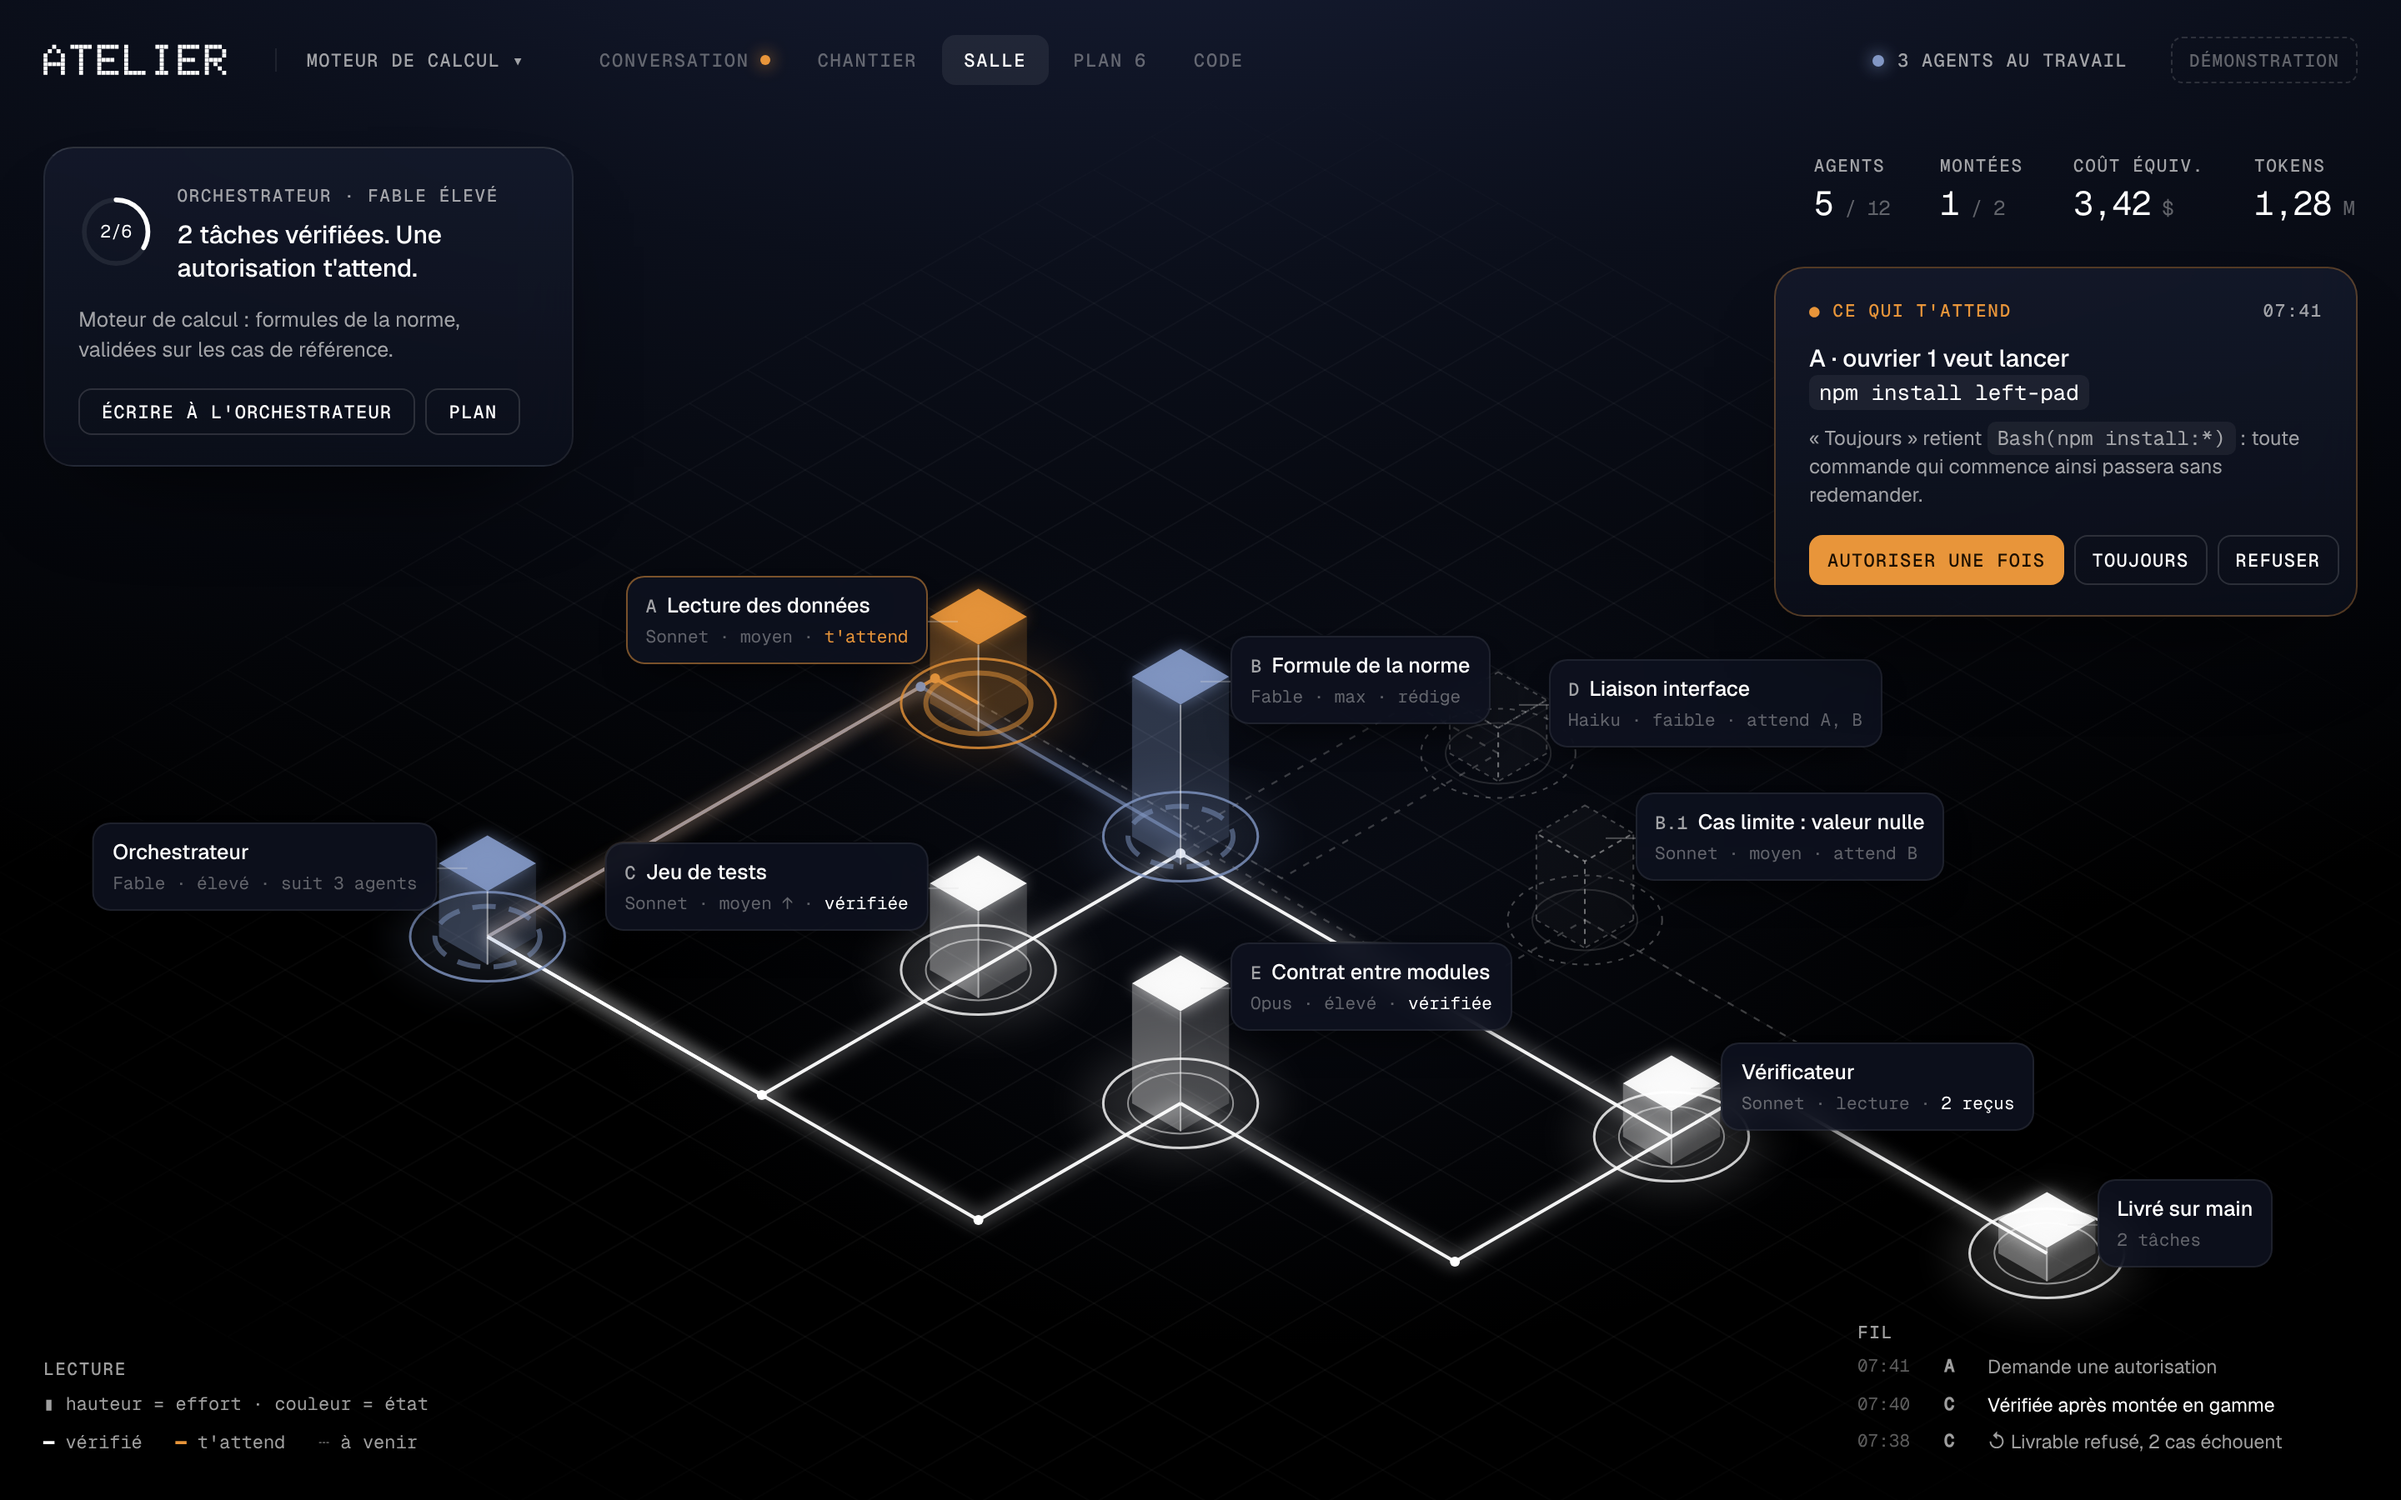
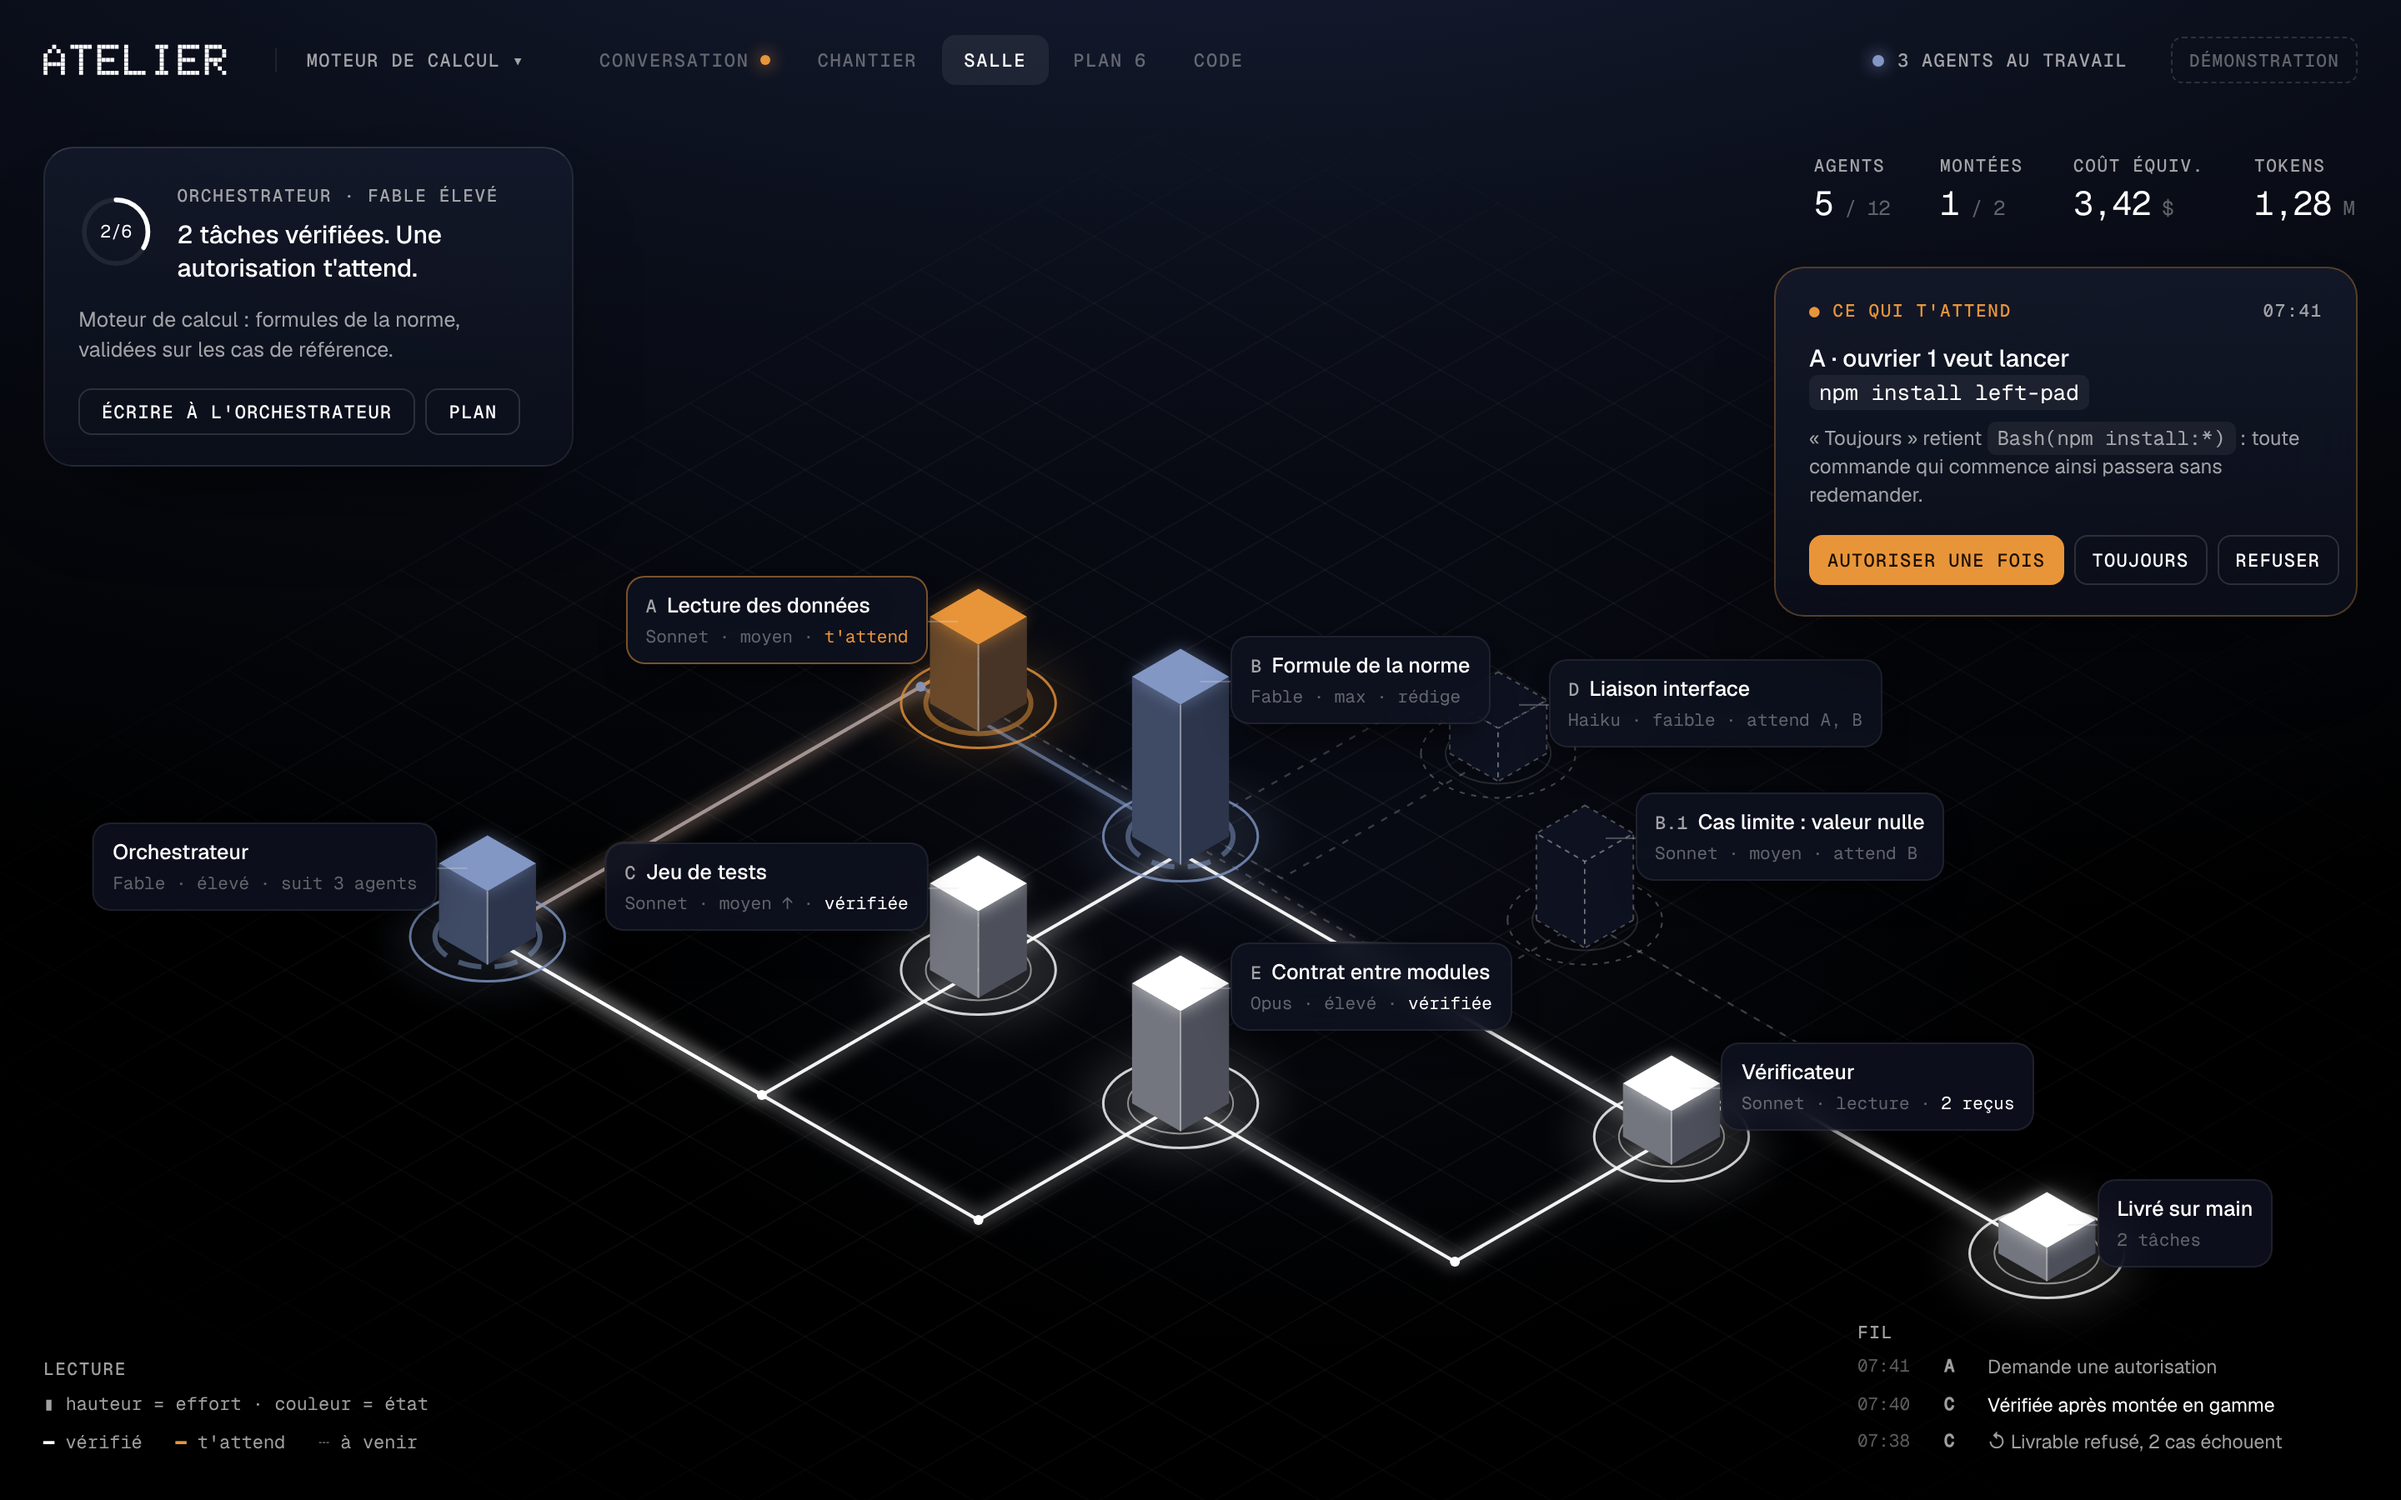
Maquette Salle : colonnes opaques posées dans leur anneau au sol
Claude-Session: https://claude.ai/code/session_01PQizFcFojt44W4TEX2tqFc

diff --git a/maquettes/salle.html b/maquettes/salle.html
@@ -96,20 +96,25 @@ route("C","V","ok","y");route("E","V","ok","x");route("B.1","V","lancer","x");ro
 const G=document.getElementById("piliers");const T=document.getElementById("tags");
 const order=[...ST].sort((a,b)=>(pos[a[0]][0]+pos[a[0]][1])-(pos[b[0]][0]+pos[b[0]][1]));
 order.forEach(([id,u,v,st,nom,dos,etat,eff,hOver,cote])=>{const[x,y]=pos[id];const h=hOver||EFF[eff];const w=.42,c=COL[st];
- // anneau au sol
+ // anneau au sol, coupé en deux : l'arc arrière passe derrière la colonne, l'arc avant devant
  const [cx,cy]=P(x,y);const rx=.95*S*1.22,ry=rx*.577;
+ const demi=(k,avant)=>`M${cx-rx*k},${cy} A${rx*k},${ry*k} 0 0 ${avant?0:1} ${cx+rx*k},${cy}`;
+ const anneaux=(avant)=>{
+  G.append(el("path",{d:demi(1,avant),fill:"none",stroke:c,"stroke-width":st=="lancer"?1:1.5,opacity:st=="lancer"?.3:.8,"stroke-dasharray":st=="lancer"?"3 4":""}));
+  G.append(el("path",{d:demi(.68,avant),fill:"none",stroke:c,"stroke-width":st=="att"||st=="cours"?3:1,opacity:st=="lancer"?.15:.5,"stroke-dasharray":st=="cours"?"14 8":""}))};
  G.append(el("ellipse",{cx,cy,rx:rx*1.25,ry:ry*1.25,fill:c,opacity:st=="lancer"?0:.12,filter:"url(#flou2)"}));
- G.append(el("ellipse",{cx,cy,rx,ry,fill:"none",stroke:c,"stroke-width":st=="lancer"?1:1.5,opacity:st=="lancer"?.3:.8,"stroke-dasharray":st=="lancer"?"3 4":""}));
- G.append(el("ellipse",{cx,cy,rx:rx*.68,ry:ry*.68,fill:"none",stroke:c,"stroke-width":st=="att"||st=="cours"?3:1,opacity:st=="lancer"?.15:.5,"stroke-dasharray":st=="cours"?"14 8":""}));
- // prisme
+ anneaux(false);
+ // colonne opaque : faces teintées par mélange avec le bleu nuit, le sommet garde la couleur pleine
+ const melange=(hex,t)=>{const f=n=>parseInt(hex.slice(n,n+2),16),bg=[14,18,32];return `rgb(${[1,3,5].map((n,i)=>Math.round(bg[i]+(f(n)-bg[i])*t)).join(",")})`};
  const p=(dx,dy,z)=>P(x+dx,y+dy,z).join(",");
  const top=[p(-w,-w,h),p(w,-w,h),p(w,w,h),p(-w,w,h)].join(" ");
  const gauche=[p(-w,w,0),p(w,w,0),p(w,w,h),p(-w,w,h)].join(" ");
  const droite=[p(w,-w,0),p(w,w,0),p(w,w,h),p(w,-w,h)].join(" ");
- if(st=="lancer"){[gauche,droite,top].forEach(f=>G.append(el("polygon",{points:f,fill:"rgba(220,220,220,.03)",stroke:"rgba(220,220,220,.28)","stroke-width":1,"stroke-dasharray":"3 3"})))}
- else{G.append(el("polygon",{points:gauche,fill:c,opacity:.32}));G.append(el("polygon",{points:droite,fill:c,opacity:.18}));G.append(el("polygon",{points:top,fill:c,opacity:.95}));
-  G.append(el("polygon",{points:top,fill:c,opacity:.6,filter:"url(#flou)"}));
-  G.append(el("line",{x1:P(x+w,y+w,0)[0],y1:P(x+w,y+w,0)[1],x2:P(x+w,y+w,h)[0],y2:P(x+w,y+w,h)[1],stroke:"#fff","stroke-opacity":.5,"stroke-width":1}))}
+ if(st=="lancer"){[gauche,droite,top].forEach(f=>G.append(el("polygon",{points:f,fill:"#0e1220",stroke:"rgba(220,220,220,.32)","stroke-width":1,"stroke-dasharray":"3 3"})))}
+ else{G.append(el("polygon",{points:gauche,fill:melange(c,.42)}));G.append(el("polygon",{points:droite,fill:melange(c,.26)}));
+  G.append(el("polygon",{points:top,fill:c,opacity:.55,filter:"url(#flou)"}));G.append(el("polygon",{points:top,fill:c}));
+  G.append(el("line",{x1:P(x+w,y+w,0)[0],y1:P(x+w,y+w,0)[1],x2:P(x+w,y+w,h)[0],y2:P(x+w,y+w,h)[1],stroke:"#fff","stroke-opacity":.45,"stroke-width":1}))}
+ anneaux(true);
  // étiquette
  const [tx,ty]=P(x,y,h);const label=id.length<=3&&id!="O"&&id!="V"&&id!="L"?`<b>${id}</b>`:"";
  T.insertAdjacentHTML("beforeend",`<div class="tag ${st} ${cote}" style="left:${cote=="g"?tx-30:tx+30}px;top:${ty+2}px"><div class="t">${label}${nom}</div><div class="d">${dos}${etat?` · <span>${etat}</span>`:""}</div></div>`)});
